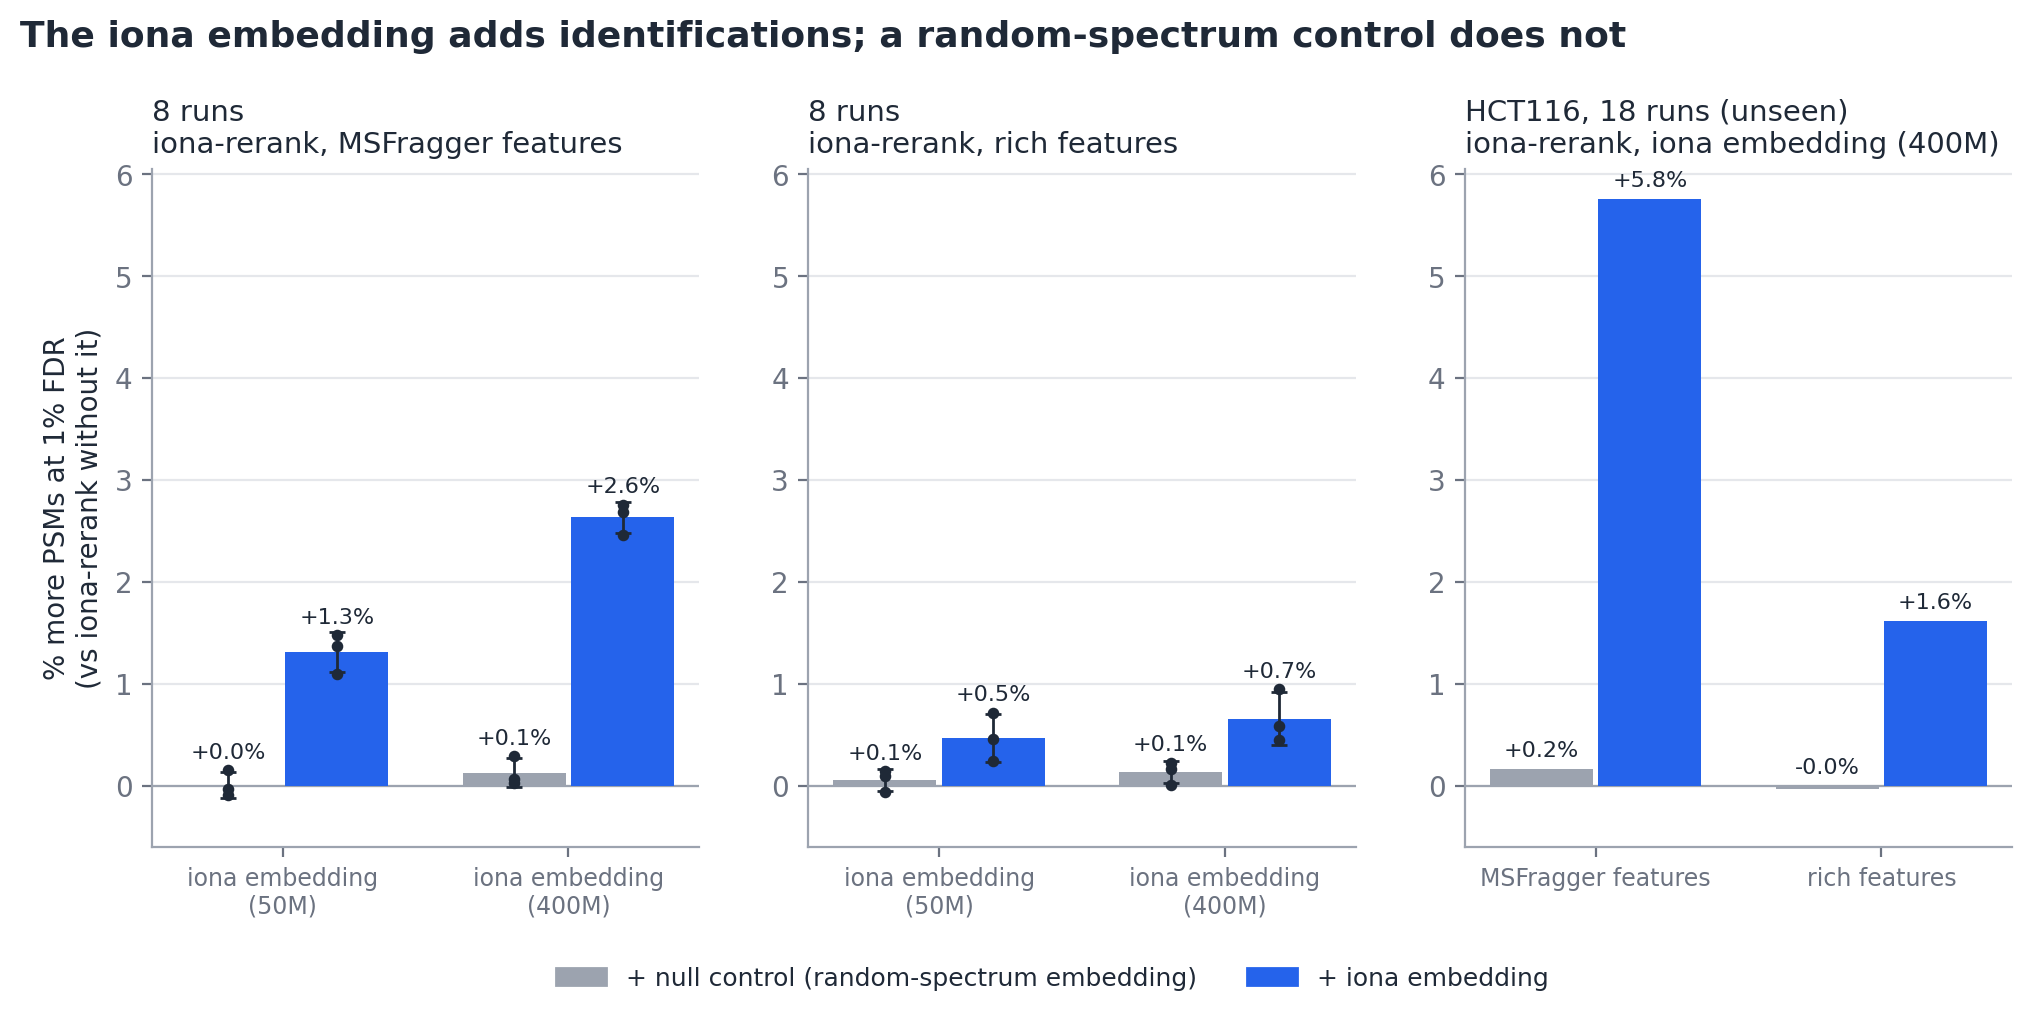
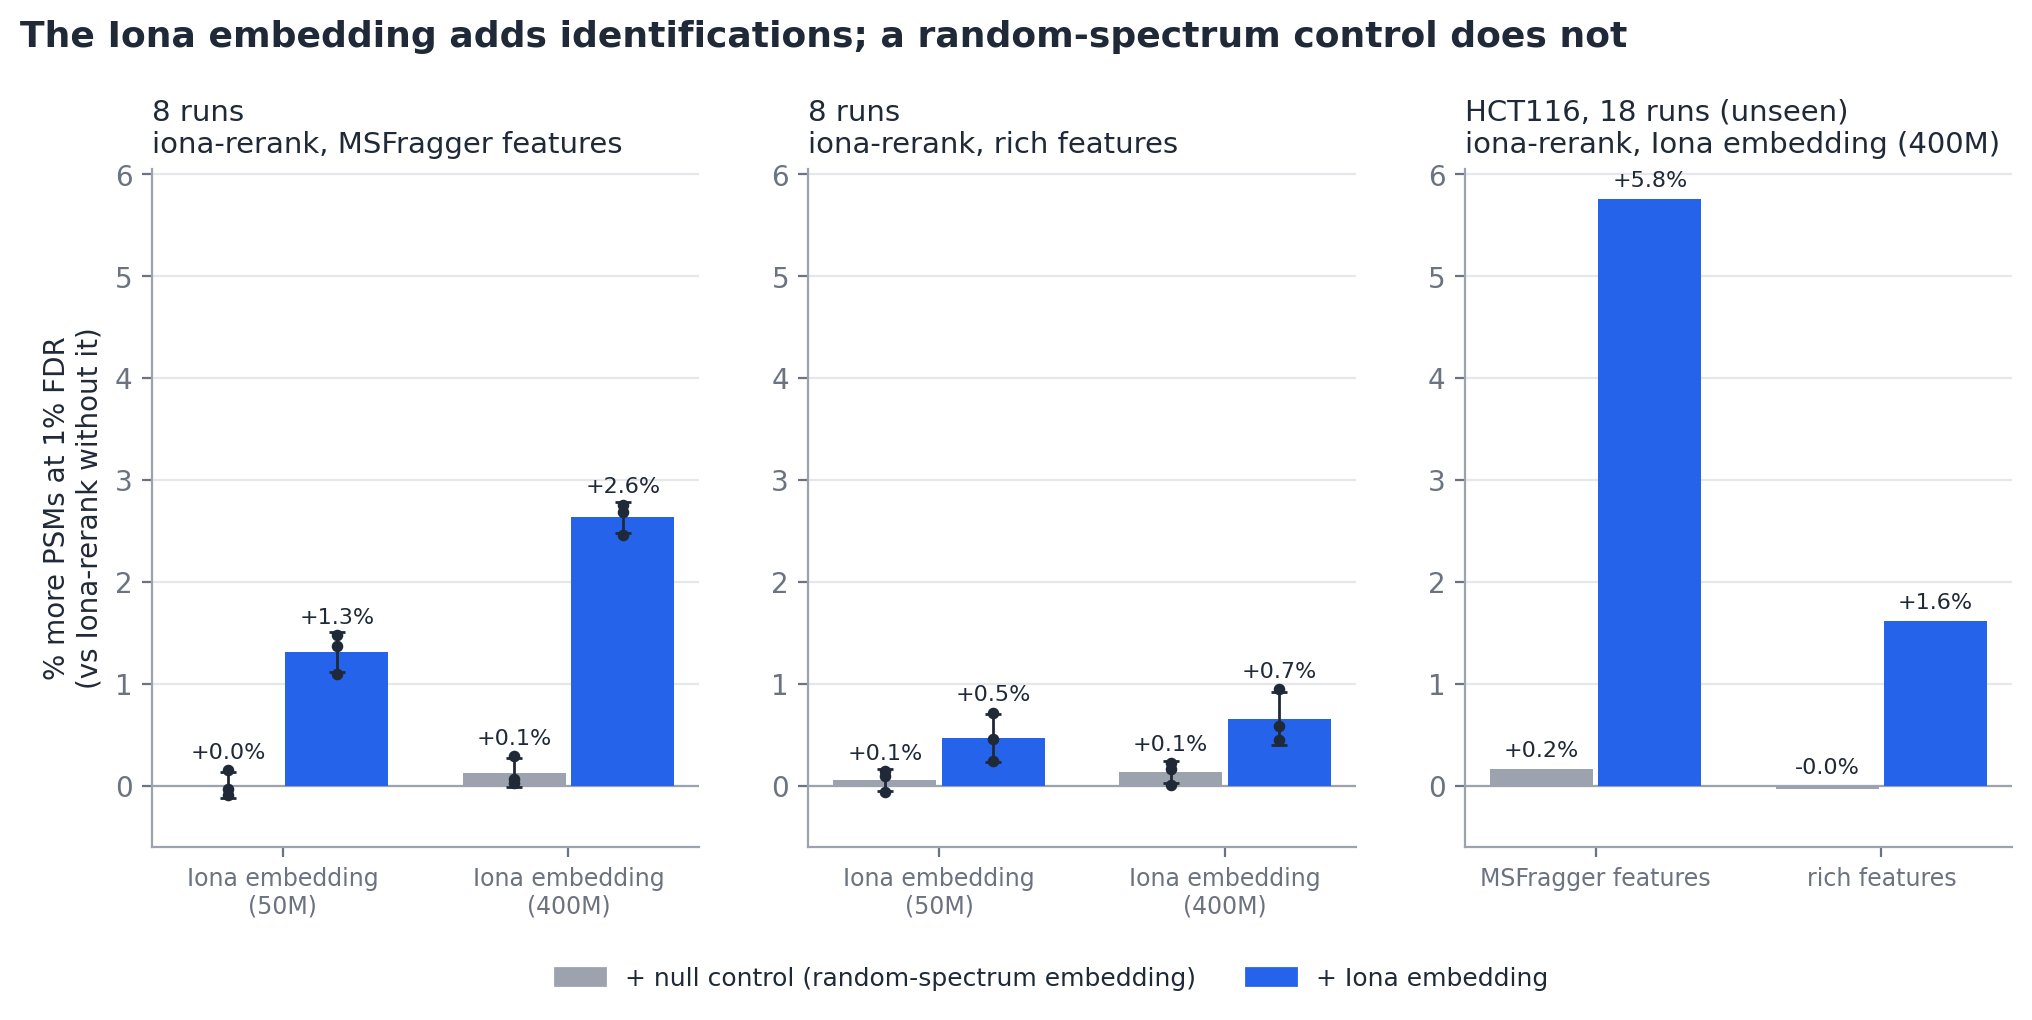
R figures: Iona capitalised (Iona-rerank, Iona embedding)
Claude-Session: https://claude.ai/code/session_01ATgkXx1oRRqvzB3G8wYeta

diff --git a/paper/experiments/reranking/plot_reranking.py b/paper/experiments/reranking/plot_reranking.py
@@ -3,7 +3,7 @@
     python plot_reranking.py      # needs matplotlib + numpy
 
     R_embedding_gain.csv -> R_embedding_gain.png   % more PSMs at 1% FDR from adding the embedding vs a null control
-    R_benchmark.csv      -> R_benchmark.png        PSMs at 1% FDR: MSFragger, MS2Rescore, iona-rerank
+    R_benchmark.csv      -> R_benchmark.png        PSMs at 1% FDR: MSFragger, MS2Rescore, Iona-rerank
 """
 import csv
 from pathlib import Path
@@ -31,7 +31,7 @@ def embedding_gain():
     bases = list(dict.fromkeys(r["base"] for r in rows))
     panels = [(EIGHT, "MSFragger features", teachers, "8 runs\niona-rerank, MSFragger features"),
               (EIGHT, "rich features", teachers, "8 runs\niona-rerank, rich features"),
-              (HCT, None, bases, "HCT116, 18 runs (unseen)\niona-rerank, iona embedding (400M)")]
+              (HCT, None, bases, "HCT116, 18 runs (unseen)\niona-rerank, Iona embedding (400M)")]
     with plt.rc_context(STYLE):
         fig, axes = plt.subplots(1, 3, figsize=(12, 4.4))
         for ax, (ds, base, groups, title) in zip(axes, panels):
@@ -48,20 +48,20 @@ def embedding_gain():
                     ax.text(x, max(v.max(), 0) + 0.12, f"{v.mean():+.1f}%", ha="center", fontsize=8)
             ax.set_xticks(range(len(groups))); ax.set_xticklabels([g.replace(" (", "\n(") for g in groups], fontsize=8.5)
             ax.set_title(title, loc="left", fontsize=10.5)
-        axes[0].set_ylabel("% more PSMs at 1% FDR\n(vs iona-rerank without it)")
+        axes[0].set_ylabel("% more PSMs at 1% FDR\n(vs Iona-rerank without it)")
         top = max(a.get_ylim()[1] for a in axes)
         for a in axes:
             a.set_ylim(-0.6, top)
-        fig.suptitle("The iona embedding adds identifications; a random-spectrum control does not", x=0.07, ha="left",
+        fig.suptitle("The Iona embedding adds identifications; a random-spectrum control does not", x=0.07, ha="left",
                      fontsize=13, fontweight="bold", y=1.05)
         fig.legend(handles=[plt.Rectangle((0, 0), 1, 1, color=c) for c in cols.values()],
-                   labels=["+ null control (random-spectrum embedding)", "+ iona embedding"], frameon=False,
+                   labels=["+ null control (random-spectrum embedding)", "+ Iona embedding"], frameon=False,
                    fontsize=9, ncol=2, loc="upper center", bbox_to_anchor=(0.5, 0.0))
         fig.savefig(HERE / "R_embedding_gain.png"); plt.close(fig)
 
 
 FEATURE_COLS = [("MSFragger\nfeatures", "msf"), ("rich\nfeatures", "rich"), ("MS2PIP", "ms2pip"),
-                ("DeepLC", "deeplc"), ("iona\nembedding", "iona")]
+                ("DeepLC", "deeplc"), ("Iona\nembedding", "iona")]
 
 
 def features_of(method):
@@ -73,7 +73,7 @@ def features_of(method):
         f.add("ms2pip")
     if "DeepLC" in method:
         f.add("deeplc")
-    if "iona embedding" in method:
+    if "Iona embedding" in method:
         f.add("iona")
     if "null control" in method:
         f.add("null")
@@ -83,12 +83,12 @@ def features_of(method):
 def benchmark(csv_path=None, out_path=None):
     rows = list(csv.DictReader(open(csv_path or HERE / "R_benchmark.csv")))
     order = list(dict.fromkeys(r["method"] for r in rows))
-    order = [order[0]] + [m for m in order if m.startswith("iona-rerank, MSFragger")] + \
+    order = [order[0]] + [m for m in order if m.startswith("Iona-rerank, MSFragger")] + \
             [m for m in order if m.startswith("MS2Rescore")] + \
-            [m for m in order if m.startswith("iona-rerank, rich")]
-    col = lambda m: ("#b45309" if m.startswith("MS2Rescore") and "+ iona embedding" in m else
+            [m for m in order if m.startswith("Iona-rerank, rich")]
+    col = lambda m: ("#b45309" if m.startswith("MS2Rescore") and "+ Iona embedding" in m else
                      "#fcd34d" if "null control" in m else
-                     "#2563eb" if "+ iona embedding" in m else "#93c5fd" if m.startswith("iona-rerank") else
+                     "#2563eb" if "+ Iona embedding" in m else "#93c5fd" if m.startswith("Iona-rerank") else
                      "#f59e0b" if "MS2Rescore" in m else "#9ca3af")
     name = lambda m: m.split(",")[0].replace(" (e-value)", "")
     with plt.rc_context(STYLE):
@@ -119,10 +119,10 @@ def benchmark(csv_path=None, out_path=None):
         ax.spines["left"].set_visible(False); ax.tick_params(axis="y", length=0)
         fig.suptitle("PSM rescoring: identifications at 1% FDR, and the features each method uses", x=0.06, ha="left",
                      fontsize=13, fontweight="bold", y=1.03)
-        fig.text(0.06, -0.05, "iona-rerank: our per-run classifier, mean ± sd over 3 seeds; MS2Rescore rows: one run each. "
+        fig.text(0.06, -0.05, "Iona-rerank: our per-run classifier, mean ± sd over 3 seeds; MS2Rescore rows: one run each. "
                  "Rich features: the lab's per-candidate table (scores from 4 search engines incl. MSFragger,\n"
                  "fragment-ion and cross-candidate features). MS2Rescore also computes its own fragment-match features. "
-                 "iona embedding: 400M.",
+                 "Iona embedding: 400M.",
                  fontsize=8, color=MUTED)
         fig.savefig(out_path or HERE / "R_benchmark.png"); plt.close(fig)
 

diff --git a/sweeps/package_rerank.py b/sweeps/package_rerank.py
@@ -34,8 +34,8 @@ STYLE = {"font.family": "DejaVu Sans", "font.size": 10, "axes.edgecolor": "#9ca3
          "axes.spines.top": False, "axes.spines.right": False, "savefig.bbox": "tight", "figure.dpi": 200}
 # embedding -> (label, per-seed sources for the 8-run per-run results)
 EMB = {
-    "A1": ("iona embedding (50M)", [PSM / f"a1-rerun_r4_global+perrun_seed{s}.json" for s in (0, 1, 2)]),
-    "A2": ("iona embedding (400M)", [PSM / "a2-400m_r4_seed0.log"] + [PSM / f"a2-400m_r4_global+perrun_seed{s}.json" for s in (1, 2)]),
+    "A1": ("Iona embedding (50M)", [PSM / f"a1-rerun_r4_global+perrun_seed{s}.json" for s in (0, 1, 2)]),
+    "A2": ("Iona embedding (400M)", [PSM / "a2-400m_r4_seed0.log"] + [PSM / f"a2-400m_r4_global+perrun_seed{s}.json" for s in (1, 2)]),
 }
 BASES = {"ms": "MSFragger features", "lab": "rich features"}   # rich = the lab's per-candidate feature table
 VARIANTS = ["", "+embws", "+nullws"]
@@ -80,7 +80,7 @@ def fig_gain(rows):
     panels = [("8 runs (6 HEK, 2 HCT116)", BASES["ms"]), ("8 runs (6 HEK, 2 HCT116)", BASES["lab"]),
               ("HCT116, 18 runs (unseen)", None)]
     titles = ["8 runs\niona-rerank, MSFragger features", "8 runs\niona-rerank, rich features",
-              "HCT116, 18 runs (unseen)\niona-rerank, iona embedding (400M)"]
+              "HCT116, 18 runs (unseen)\niona-rerank, Iona embedding (400M)"]
     with plt.rc_context(STYLE):
         fig, axes = plt.subplots(1, 3, figsize=(12, 4.4), gridspec_kw={"width_ratios": [2, 2, 2]})
         for ax, (ds, base), title in zip(axes, panels, titles):
@@ -100,14 +100,14 @@ def fig_gain(rows):
             ax.set_xticks(range(len(groups)))
             ax.set_xticklabels([g.replace(" (", "\n(") for g in groups], fontsize=8.5)
             ax.set_title(title, loc="left", fontsize=10.5)
-        axes[0].set_ylabel("% more PSMs at 1% FDR\n(vs iona-rerank without it)")
+        axes[0].set_ylabel("% more PSMs at 1% FDR\n(vs Iona-rerank without it)")
         top = max(a.get_ylim()[1] for a in axes)
         for a in axes:
             a.set_ylim(-0.6, top)
-        fig.suptitle("The iona embedding adds identifications; a random-spectrum control does not", x=0.07, ha="left",
+        fig.suptitle("The Iona embedding adds identifications; a random-spectrum control does not", x=0.07, ha="left",
                      fontsize=13, fontweight="bold", y=1.05)
         fig.legend(handles=[plt.Rectangle((0, 0), 1, 1, color=c) for c in cols.values()],
-                   labels=["+ null control (random-spectrum embedding)", "+ iona embedding"], frameon=False,
+                   labels=["+ null control (random-spectrum embedding)", "+ Iona embedding"], frameon=False,
                    fontsize=9, ncol=2, loc="upper center", bbox_to_anchor=(0.5, 0.0))
         fig.savefig(FIG / "R_embedding_gain.png"); plt.close(fig)
 
@@ -123,12 +123,12 @@ def benchmark_rows():
                    ("ms2rescore:full", "MS2Rescore, MSFragger features + MS2PIP + DeepLC")):
         rows.append(dict(method=lab, seed="", psms=ms2r[k]["all"]["pooled"], source=f"results_ms2rescore.json:{k}"))
     emb = json.loads((REPO / "baselines_wip" / "results_ms2rescore_emb8_a2.json").read_text())
-    for k, lab in (("ms2rescore:full+embedding(400M teacher, cosws)", "MS2Rescore, MSFragger features + MS2PIP + DeepLC + iona embedding"),):
+    for k, lab in (("ms2rescore:full+embedding(400M teacher, cosws)", "MS2Rescore, MSFragger features + MS2PIP + DeepLC + Iona embedding"),):
         rows.append(dict(method=lab, seed="", psms=emb[k]["all"]["pooled"], source=f"results_ms2rescore_emb8_a2.json:{k}"))
     for seed, src in enumerate(EMB["A2"][1]):
         p = perrun(src)
-        for feat, lab in (("ms", "iona-rerank, MSFragger features"), ("ms+embws", "iona-rerank, MSFragger features + iona embedding"),
-                          ("lab", "iona-rerank, rich features"), ("lab+embws", "iona-rerank, rich features + iona embedding")):
+        for feat, lab in (("ms", "Iona-rerank, MSFragger features"), ("ms+embws", "Iona-rerank, MSFragger features + Iona embedding"),
+                          ("lab", "Iona-rerank, rich features"), ("lab+embws", "Iona-rerank, rich features + Iona embedding")):
             rows.append(dict(method=lab, seed=seed, psms=p[feat], source=src.name))
     assert d0  # A2 seed 0 parsed from its log
     return rows

diff --git a/paper/experiments/reranking/README.md b/paper/experiments/reranking/README.md
@@ -10,7 +10,7 @@ spectrum/peptide embedding similarity as a feature lets the classifier identify 
 | file | content |
 |---|---|
 | `R_embedding_gain.png`, `R_embedding_gain.csv` | % more PSMs at 1% FDR from adding the embedding features vs adding a null control |
-| `R_benchmark.png`, `R_benchmark.csv` | PSMs at 1% FDR for MSFragger, MS2Rescore and iona-rerank, with a grid showing which features each method uses |
+| `R_benchmark.png`, `R_benchmark.csv` | PSMs at 1% FDR for MSFragger, MS2Rescore and Iona-rerank, with a grid showing which features each method uses |
 | `plot_reranking.py` | regenerates both figures from the CSVs (`python plot_reranking.py`; matplotlib + numpy) |
 
 `R_embedding_gain.csv`: one row per (dataset, embedding, feature set, arm, seed) with the PSMs of the
@@ -30,20 +30,20 @@ the result file each number was read from.
 
 ## Methods
 
-- **iona-rerank** (our per-run classifier): Percolator-style rescoring trained separately on each run: 3-fold
+- **Iona-rerank** (our per-run classifier): Percolator-style rescoring trained separately on each run: 3-fold
   cross-validation by spectrum, iterative target/decoy labels, linear model. PSMs at 1% FDR are
   counted over all runs.
   - **rich features**: the lab's per-candidate feature table: scores from four search engines (MSFragger,
     Comet, SEQUEST, ProLuCID), fragment-ion coverage/intensity, cross-candidate context and peptide features.
     Its predicted-spectrum and retention-time columns are empty in the published table and are not used.
   - **MSFragger features**: MSFragger's search scores alone.
-- **+ iona embedding**: the cosine similarity between the spectrum's embedding and the candidate peptide's
+- **+ Iona embedding**: the cosine similarity between the spectrum's embedding and the candidate peptide's
   embedding, plus four features of that cosine relative to the spectrum's other candidates (rank,
   difference to the best other candidate, z-score within the spectrum, gap between the top two).
   Spectrum embeddings come from the fine-tuned spectrum encoder (the teacher); peptide embeddings from
   the peptide embedder trained on it (the student).
-  - **iona embedding (50M)**: fine-tuned 50M spectrum encoder (step 600) and its peptide student.
-  - **iona embedding (400M)**: fine-tuned 400M spectrum encoder (end of epoch, seed 0) and its peptide student
+  - **Iona embedding (50M)**: fine-tuned 50M spectrum encoder (step 600) and its peptide student.
+  - **Iona embedding (400M)**: fine-tuned 400M spectrum encoder (end of epoch, seed 0) and its peptide student
     (released as `Gaolaboratory/iona-peptide-embedder-400m`).
 - **+ null control**: the same five features computed with the embedding of a random other spectrum
   in place of the query's. It adds the same number of features with the same distributions but no
@@ -58,17 +58,17 @@ the result file each number was read from.
 
 Embedding minus null control (the net gain), PSMs at 1% FDR, 8 runs, per seed:
 
-| features | iona embedding (50M) | iona embedding (400M) |
+| features | Iona embedding (50M) | Iona embedding (400M) |
 |---|---|---|
 | MSFragger features | +1,495 / +1,215 / +1,186 (+1.3%) | +2,705 / +2,373 / +2,386 (+2.5%) |
 | rich features | +398 / +738 / +473 (+0.4%) | +564 / +924 / +544 (+0.5%) |
 
-HCT116, 18 runs, iona embedding (400M): +20,763 (+5.6%) with MSFragger features, +8,624 (+1.65%) with rich
+HCT116, 18 runs, Iona embedding (400M): +20,763 (+5.6%) with MSFragger features, +8,624 (+1.65%) with rich
 features.
 
-- The null control adds nothing (-0.1% to +0.2%); the iona embedding adds identifications in every setting.
+- The null control adds nothing (-0.1% to +0.2%); the Iona embedding adds identifications in every setting.
 - The better teacher (400M) gives the larger gain; the gain is largest on the unseen HCT116 runs and
-  with MSFragger features, and persists on top of the rich features; iona-rerank with rich features alone
+  with MSFragger features, and persists on top of the rich features; Iona-rerank with rich features alone
   matches MS2Rescore with MS2PIP + DeepLC (128,909 vs 128,211) using different information.
 
 ## Controls and caveats
@@ -76,7 +76,7 @@ features.
 - With shuffled target/decoy labels the classifier finds 0 PSMs at 1% FDR.
 - The embedding cosine alone barely separates targets from decoys (AUROC 0.52-0.53; null 0.50), so the
   gain is not a leak of the target/decoy label.
-- Across the 3 seeds, iona-rerank without the embedding ranges 128,751-129,041 PSMs (rich features)
+- Across the 3 seeds, Iona-rerank without the embedding ranges 128,751-129,041 PSMs (rich features)
   and 99,154-99,405 (MSFragger features); gains are compared within each seed.
 - Oktoberfest was run on the 6 HEK runs only and is not comparable with these 8-run numbers, so it is
   not shown.
@@ -85,7 +85,7 @@ features.
   the 2 HCT116 runs the null gained more than the embedding (+452 vs +343), i.e. within MS2Rescore's
   sensitivity to added features on those small runs. `R_benchmark.png` shows the embedding row;
   the null-control row is omitted there (it is noise-dominated, see above). The 18-run HCT116 MS2Rescore
-  comparison is pending. (MS2Rescore + MS2PIP + DeepLC + iona embedding and iona-rerank
+  comparison is pending. (MS2Rescore + MS2PIP + DeepLC + Iona embedding and Iona-rerank
   with rich features both read 128,909: the first is one run, the second the mean of 129,041 / 128,751 / 128,934.)
 
 Provenance: msdelta repository, `sweeps/package_rerank.py` (from `results/rerank/psm/` and
